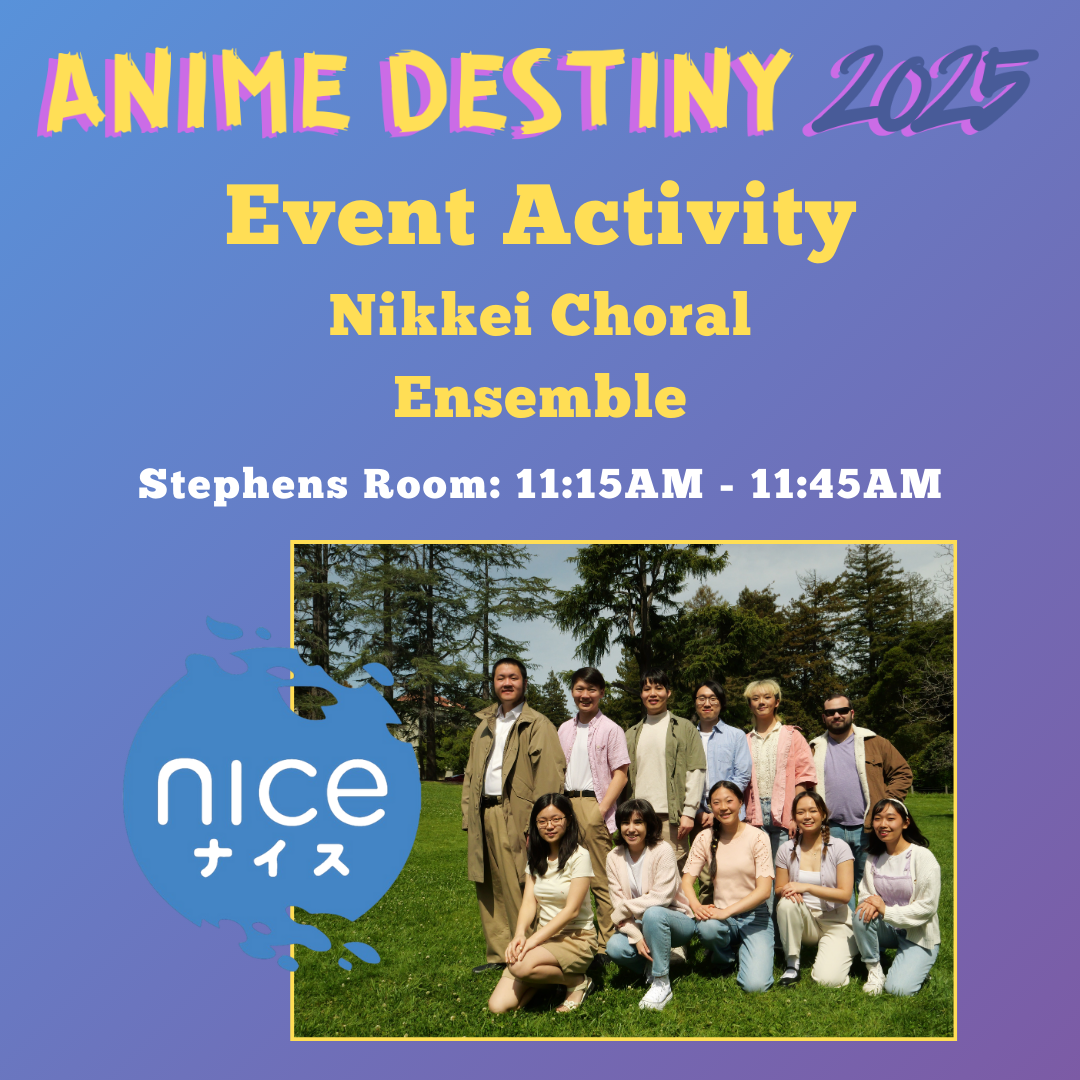
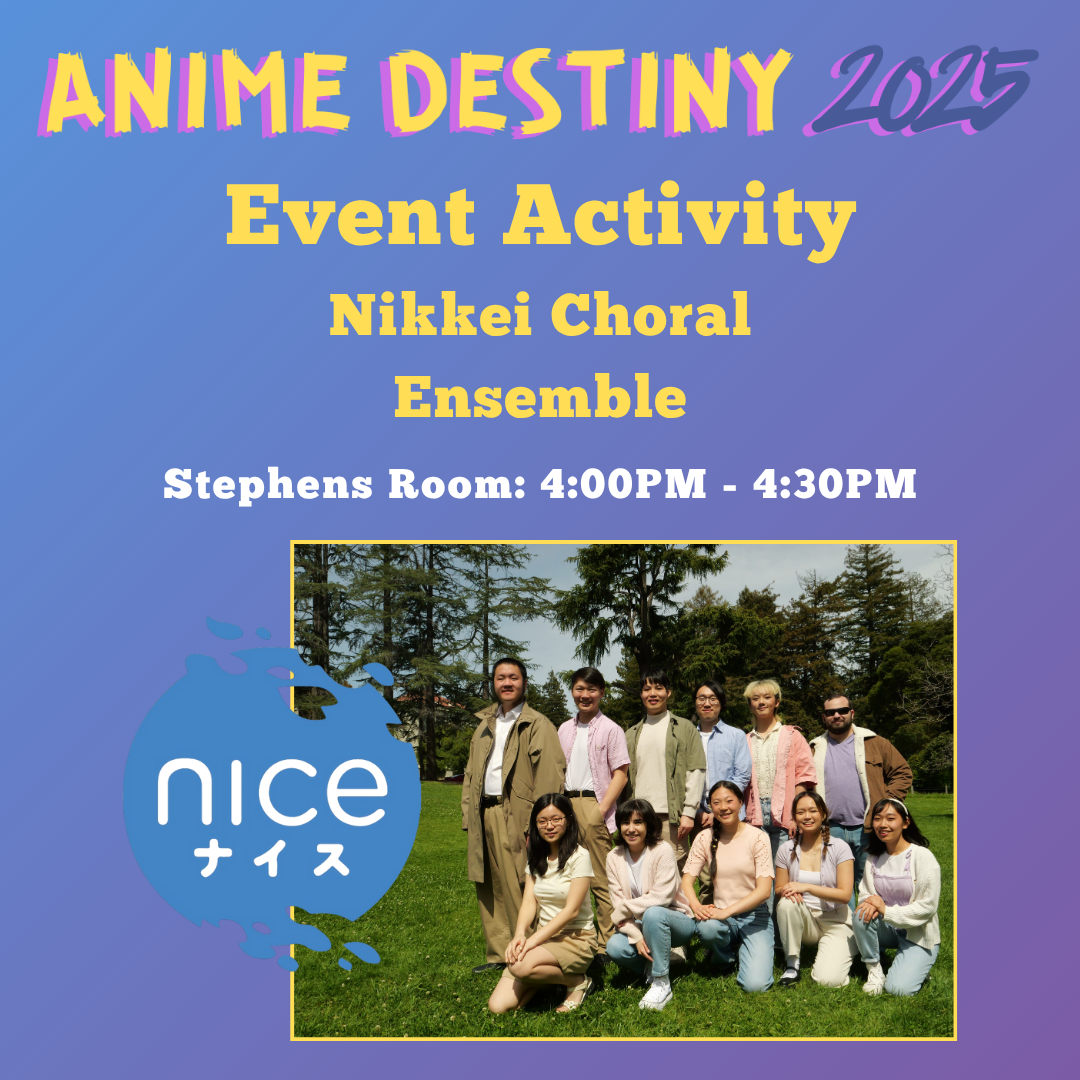
Updated programming and navbar. Commented out WIP images. Added placeholder schedule image.

Changed region(s): [[0.1222, 0.4278, 0.8861, 0.4889]]

diff --git a/src/routes/programming/+page.svelte b/src/routes/programming/+page.svelte
@@ -52,36 +52,34 @@
       <!-- Events -->
       <div class="event-category">
         <!--<h3>Events</h3> -->
-
-        <section id="event-nikkei-choral-performance" class="program-card" class:glow={currentHash === "#event-nikkei-choral-performance"}>
-          <div class="name-bar"><h4>Nikkei Choral Ensemble</h4></div>
+  
+        <section id="event-sweden" class="program-card" class:glow={currentHash === "#event-sweden"}>
+          <div class="name-bar"><h4>Alfhilde Presents: WWII Swedish History</h4></div>
           <p><strong>Location:</strong> Stephens Hall</p>
           <p><strong>Time:</strong> 11:15 AM - 11:45 AM</p>
-          <p>We are the Nikkei Choral Ensemble, UC Berkeley's premiere Japanese and English acapella group.  We'll be singing songs from media and popular culture, including Vocaloid hits and favorites from anime.  We hope you'll enjoy our performance!</p>
-          <p>Website: <a href="https://niceacappella.studentorg.berkeley.edu/index.html" target="_blank" class="link">https://niceacappella.studentorg.berkeley.edu/</a></p>
-          <p>Social Media: @nikkeichoralensemble</p>
-          <div class="nikkei-choral-image">
-            <img src="images/nikkei_choral.png" alt="Work in Progress" class="nikkei-image" />
-          </div>
-        </section>
-        
-        <section id="event-jpop-kpop" class="program-card" class:glow={currentHash === "#event-jpop-kpop"}>
-          <div class="name-bar"><h4>J-Pop/K-Pop Random Play Dance</h4></div>
-          <p><strong>Location:</strong> Stephens Hall</p>
-          <p><strong>Time:</strong> 12:00 PM - 1:00 PM</p>
-          <p>Come show off your dance skills at our Random Play Dance event! Join us for a randomly selected set of J-Pop and K-Pop tracks full of fun and energy! All levels of dancers, beginners or experienced performers are welcome to come and try their hand at our dances.</p>
-          <div class="jpop-kpop-image">
-            <img src="images/jpop_kpop.png" alt="Work in Progress" />
+          <p>Ever wanted to receive a lecture from a VTuber? Join History enthusiast Alfhilde as she gives an interesting deep dive into Sweden's involvement in World War II (despite being neutral) and the many occurrences where Sweden was caught in the middle of the conflict. It will be fun, we promise!</p>
+          <div class="sweden-image">
+            <img src="images\Anime Destiny 2025 Post Graphics\Anime_Destiny_2025_-_Alfhilde_Panel.png" alt="Work in Progress" />
           </div>
         </section>
 
         <section id="event-shipgirls" class="program-card" class:glow={currentHash === "#event-shipgirls"}>
           <div class="name-bar"><h4>Shipgirls and Jetgirl VTubers? : Welcome to VFleet Project</h4></div>
           <p><strong>Location:</strong> Stephens Hall</p>
-          <p><strong>Time:</strong> 1:30 PM - 2:15 PM</p>
+          <p><strong>Time:</strong> 12:00 PM - 12:45 PM</p>
           <p>VTubers have a Navy? Meet the shipgirls and Jetgirls of VFleet Project as they take to the virtual seas to raise awareness and support for nonprofit museums!</p>
           <div class="shipgirls-image">
-            <img src="images/shipgirls.png" alt="Work in Progress" />
+            <img src="images\Anime Destiny 2025 Post Graphics\Anime_Destiny_2025_-_VFleet_Panel.png" alt="Work in Progress" />
+          </div>
+        </section>
+
+        <section id="event-jpop-kpop" class="program-card" class:glow={currentHash === "#event-jpop-kpop"}>
+          <div class="name-bar"><h4>J-Pop/K-Pop Random Play Dance</h4></div>
+          <p><strong>Location:</strong> Stephens Hall</p>
+          <p><strong>Time:</strong> 1:00 PM - 2:00 PM</p>
+          <p>Come show off your dance skills at our Random Play Dance event! Join us for a randomly selected set of J-Pop and K-Pop tracks full of fun and energy! All levels of dancers, beginners or experienced performers are welcome to come and try their hand at our dances.</p>
+          <div class="jpop-kpop-image">
+            <img src="images\Anime Destiny 2025 Post Graphics\Anime_Destiny_2025_-_JPopKPop_Random_Dance_Event_1.png" alt="Work in Progress" />
           </div>
         </section>
 
@@ -92,18 +90,27 @@
           <p>All aboard the Astral Express for a special interview panel with Analesa Fisher and Cia Court, the voices behind Firefly and Himeko from Honkai: Star Rail! We will be doing a live Q&A about their roles behind Firefly and Himeko, have them perform some well-known lines from the game, and have a chance for members of the audience to ask them questions!</p>
           <div class="himeko-firefly-container">
             <div class="himeko-firefly-image">
-              <img src="images/analesa_fischer.png" alt="Work in Progress" />
+              <img src="images\Anime Destiny 2025 Post Graphics\Anime_Destiny_2025_-_Star_Rail_Panel.png" alt="Work in Progress" />
             </div>
-            <div class="himeko-firefly-image">
-              <img src="images/cia_court.png" alt="Work in Progress" />
-            </div>
+          </div>
+        </section>
+
+        <section id="event-nikkei-choral-performance" class="program-card" class:glow={currentHash === "#event-nikkei-choral-performance"}>
+          <div class="name-bar"><h4>Nikkei Choral Ensemble</h4></div>
+          <p><strong>Location:</strong> Stephens Hall</p>
+          <p><strong>Time:</strong> 4:00 PM - 4:30PM</p>
+          <p>We are the Nikkei Choral Ensemble, UC Berkeley's premiere Japanese and English acapella group.  We'll be singing songs from media and popular culture, including Vocaloid hits and favorites from anime.  We hope you'll enjoy our performance!</p>
+          <p>Website: <a href="https://niceacappella.studentorg.berkeley.edu/index.html" target="_blank" class="link">https://niceacappella.studentorg.berkeley.edu/</a></p>
+          <p>Social Media: @nikkeichoralensemble</p>
+          <div class="nikkei-choral-image">
+            <img src="images\Anime Destiny 2025 Post Graphics\Anime_Destiny_2025_-_NiCE_Event.png" alt="Work in Progress" class="nikkei-image" />
           </div>
         </section>
 
         <section id="event-genshin-club" class="program-card" class:glow={currentHash === "#event-genshin-club"}>
           <div class="name-bar"><h4>Genshin at Berkeley Event</h4></div>
           <p><strong>Location:</strong> Stephens Hall</p>
-          <p><strong>Time:</strong> 4:00 PM - 7:00 PM</p>
+          <p><strong>Time:</strong> 5:00 PM - 7:00 PM</p>
           <p>Hey there Astra-Nauts! Genshin at Berkeley will be at Anime Destiny hosting a bunch of fun activities themed around in-game Hoyoverse idols! Complete your “daily commissions“ to receive a prize! Come hangout with Hoyoverse fans!</p>
           <p>Discord: <a href="https://discord.gg/XwGc7eWDF6" class="link">
             https://discord.gg/XwGc7eWDF6
@@ -140,6 +147,17 @@
       <div class="event-category">
         <!--<h3>Events</h3>-->
 
+      <section id="event-cosplay-comp" class="program-card" class:glow={currentHash === "#event-cosplay-comp"}>
+          <div class="name-bar"><h4>Cosplay Contest</h4></div>
+          <p><strong>Location:</strong> Tilden Room</p>
+          <p><strong>Time:</strong> 12:00 PM - 1:00 PM</p>
+          <p>Join Berkeley’s cosplayers for a fun and welcoming event! Show off your cosplaying skills or just enjoy watching the amazing talent at Anime Destiny. Check-in for the contest will occur starting at 11:30AM at the judging table left of the stage until the start of the contest. <a href="/cosplay-contest" class="link"> Click here for all details.</a> </p>
+          <div class="cosplay-comp-image">
+            <img src="images\Anime Destiny 2025 Post Graphics\Anime_Destiny_2025_-_Cosplay_Contest_Event.png" alt="Work in Progress" />
+          </div>
+        </section>
+
+
         <section id="event-otaku-ongaku" class="program-card" class:glow={currentHash === "#event-otaku-ongaku"}>
           <div class="name-bar"><h4>Otaku Ongaku: Nerd Music LIVE!</h4></div>
           <p><strong>Location:</strong> Tilden Room</p>
@@ -158,7 +176,7 @@
           Have you heard about wotagei from Oshi no Ko but never knew where to start?
           Or maybe you already love wotagei and want to have a great time with fellow uchishi?<br><br>Join Bay Area wotagei team SanFlare's panel and start your wotagei journey!</p>
           <div class="wotagei-image">
-            <img src="images/wotagei.png" alt="Work in Progress" />
+            <img src="images\Anime Destiny 2025 Post Graphics\Anime_Destiny_2025_-_SanFlare_Event.png" alt="Work in Progress" />
           </div>
         </section>
 
@@ -177,7 +195,10 @@
           <div class="name-bar"><h4>Virtual Bears: VTuber Mini Concert</h4></div>
           <p><strong>Location:</strong> Tilden Room</p>
           <p><strong>Time:</strong> 6:00 PM - 7:00 PM</p>
-          <p>INFO TBD</p>
+          <p>VTubers are taking over Anime Destiny! Join talents from agencies VFleet and Aegis Link, as well as various Indie VTubers as they sing, dance, and perform some of your favorite hits! You don't want to miss this high-energy, fun closing event for Anime Destiny 2025</p>
+          <div class="virtual-bears-image">
+            <img src="images\Anime Destiny 2025 Post Graphics\Anime_Destiny_2025_-_VTuber_Mini_Concert.png" alt="Work in Progress" />
+          </div>
         </section>
       </div>
   
@@ -287,6 +308,13 @@
     flex: 1; /* Allows the image block to grow */
   }
 
+  .sweden-image img {
+    max-width:300px;
+    max-height:300px;
+    margin:0 auto;
+    padding: 5px;
+  }
+
   .nikkei-choral-image img {
     max-width:300px;
     max-height:300px;
@@ -334,6 +362,13 @@
     padding: 5px;
   }
 
+  .cosplay-comp-image img {
+    max-width:300px;
+    max-height:300px;
+    margin:0 auto;
+    padding: 5px;
+  }
+
   .otaku-ongaku-image img {
     max-width:300px;
     max-height:300px;
@@ -357,6 +392,13 @@
   }
 
   .intermission-image img {
+    max-width:300px;
+    max-height:300px;
+    margin:0 auto;
+    padding: 5px;
+  }
+
+  .virtual-bears-image img {
     max-width:300px;
     max-height:300px;
     margin:0 auto;

diff --git a/src/routes/+page.svelte b/src/routes/+page.svelte
@@ -215,7 +215,7 @@
       <h2>Artist Alley/Exhibitors</h2>
       <p style="font-family: 'Montserrat', sans-serif; font-size: 1.1rem; color: #485077; margin-bottom: 1rem;">Many amazing artists and vendors are at Anime Destiny 2025! Explore and support their talent through the Artist Alley.</p>
       <div class="content-container">
-        <img src="images/AD artist alley map.png" class="ADMap" alt="Artist Alley Map" on:click={openOverlayArtistMap} />
+        <!-- <img src="images/AD artist alley map.png" class="ADMap" alt="Artist Alley Map" on:click={openOverlayArtistMap} />
         <div style="padding:1rem 0;">
         <a on:click={openOverlayArtistMap}>Click for larger image!</a>
         </div>
@@ -224,9 +224,9 @@
             <button class="close-button-artist-map" on:click={closeOverlayArtistMap}>✕</button>
             <img src="images/AD artist alley map.png" on:click|stopPropagation class="image-artist-map" alt="Fullscreen Artist Alley Map" />
           </div>
-        {/if}
+        {/if}    -->                                    <!-- Restore once an artist alley map is completed -->
         <h2 style="font-family: 'Roboto', sans-serif; font-size: 2rem; color: #485077; margin-bottom: 1rem;">AD 2023 Artist Alley Showcase</h2>
-        <div class="embed-wrapper">      
+        <div class="embed-wrapper">  
           <!-- YouTube Embed -->
           <div id="embed youtube-embed">
             <iframe width="560" height="315" src="https://www.youtube.com/embed/06DdqfWonN4?feature=shared" title="YouTube video player" frameborder="0" allow="accelerometer; autoplay; clipboard-write; encrypted-media; gyroscope; picture-in-picture; web-share" allowfullscreen></iframe>
@@ -267,7 +267,7 @@
         
 
         <div class="content-container">
-          <img src="images/schedule.png" class="ADMap" alt="Artist Alley Map" on:click={openOverlayADSchedule} />
+          <img src="images/schedule.temp.png" class="ADMap" alt="Artist Alley Map" on:click={openOverlayADSchedule} />
           <div style="padding:1rem 0;">
           <a on:click={openOverlayADSchedule}>Click for larger image!</a>
           </div>
@@ -275,7 +275,7 @@
         {#if showOverlayADSchedule}
           <div class="overlay-artist-map"  on:click={closeOverlayADSchedule} in:fade={{ duration: 200 }} out:fade={{ duration: 200 }} >
             <button class="close-button-artist-map" on:click={closeOverlayADSchedule}>✕</button>
-            <img src="images/schedule.png" on:click|stopPropagation class="image-artist-map" alt="Fullscreen AD Map" />
+            <img src="images/schedule.temp.png" on:click|stopPropagation class="image-artist-map" alt="Fullscreen AD Map" />
           </div>
         {/if}
         

diff --git a/src/lib/components/Navbar.svelte b/src/lib/components/Navbar.svelte
@@ -89,17 +89,18 @@
   <div class="dropdown-menu" in:fade={{ duration: 200 }} out:fade={{ duration: 300 }}>
     <!-- Category: 3rd Floor - Stephens Hall -->
     <a class="main-links" href="/special-guests">Special Guests</a>
-    <a class="main-links" href="/cosplay-contest">Cosplay Contest</a> <!-- Direct link to the separate Cosplay Contest page -->
     
     <div class="category">Stephens Hall (3rd Floor)</div>
     <div class="sub-links">
       <a href="/artists">Artist Alley</a>
 
       <!-- Events (Chronological)-->
-      <a href="/programming#event-nikkei-choral-performance">Nikkei Choral Ensemble</a>
-      <a href="/programming#event-jpop-kpop">J-Pop/K-Pop Random Play Dance</a>
+      <!-- Perhaps add start and end time for artist alley?-->
+      <a href="/programming#event-sweden">Alfhilde Presents: WWII Swedish History</a>
       <a href="/programming#event-shipgirls">Shipgirls and Jetgirl VTubers? : Welcome to VFleet Project</a>
+      <a href="/programming#event-jpop-kpop">J-Pop/K-Pop Random Play Dance</a>
       <a href="/programming#event-himeko-firefly">All Aboard the Astral Express with Himeko and Firefly!</a>
+      <a href="/programming#event-nikkei-choral-performance">Nikkei Choral Ensemble</a>
       <a href="/programming#event-genshin-club">Genshin at Berkeley Event</a>
     </div>
 
@@ -108,6 +109,7 @@
     <div class="sub-links">
       <!-- Events (Chronological)-->
       <a href="/programming#panel-cosplay-competition-101">Cosplay Contest 101 Panel & Contest Pre-Judging</a>
+      <a href="/programming#event-cosplay-comp">Cosplay Contest</a>
       <a href="/programming#event-otaku-ongaku">Otaku Ongaku: Nerd Music LIVE!</a>
       <a href="/programming#event-wotagei">Introduction to Wotagei 101</a>
       <a href="/programming#event-intermission">The Intermission Orchestra</a>

diff --git a/src/routes/artists/+page.svelte b/src/routes/artists/+page.svelte
@@ -40,7 +40,8 @@ import { fade } from 'svelte/transition';
     <p>Anime Destiny and Cal Animage Alpha do not support the distribution or showcasing of AI art.</p>
   </div>
 
-  <div class="content-container">
+  <!-- Remove this comment once the final artist alley map is complete-->
+  <!-- <div class="content-container">
   <img src="images/AD artist alley map.png" class="ADMap" alt="Artist Alley Map" on:click={openOverlayArtistMap} />
     <div style="padding:1rem 0;">
     <a on:click={openOverlayArtistMap}>Click for larger image!</a>
@@ -52,7 +53,7 @@ import { fade } from 'svelte/transition';
       </div>
     {/if}
 
-  </div>
+  </div>  -->
 
 
   <div class="artists-grid">

diff --git a/src/routes/about/+page.svelte b/src/routes/about/+page.svelte
@@ -23,7 +23,8 @@
       <a href="https://cal.moe/about" class="section-link">Learn more about Cal Animage Alpha</a>
       <br/><br/>
 
-      <img src="images/animage.jpg" alt="Work in Progress" style="width: 80%; height: auto;margin:auto;" />
+      <!-- Remove once new cal animage alpha logo is added-->
+      <!-- <img src="images/animage.jpg" alt="Work in Progress" style="width: 80%; height: auto;margin:auto;" /> -->
 
     </div>
     

diff --git a/src/routes/cosplay-contest/+page.svelte b/src/routes/cosplay-contest/+page.svelte
@@ -86,7 +86,7 @@
   
   <main>
     <div class="page-title">
-      Cosplay Contest (Masquerade)
+      Cosplay Contest
     </div>
     <div class="page-body">
 
